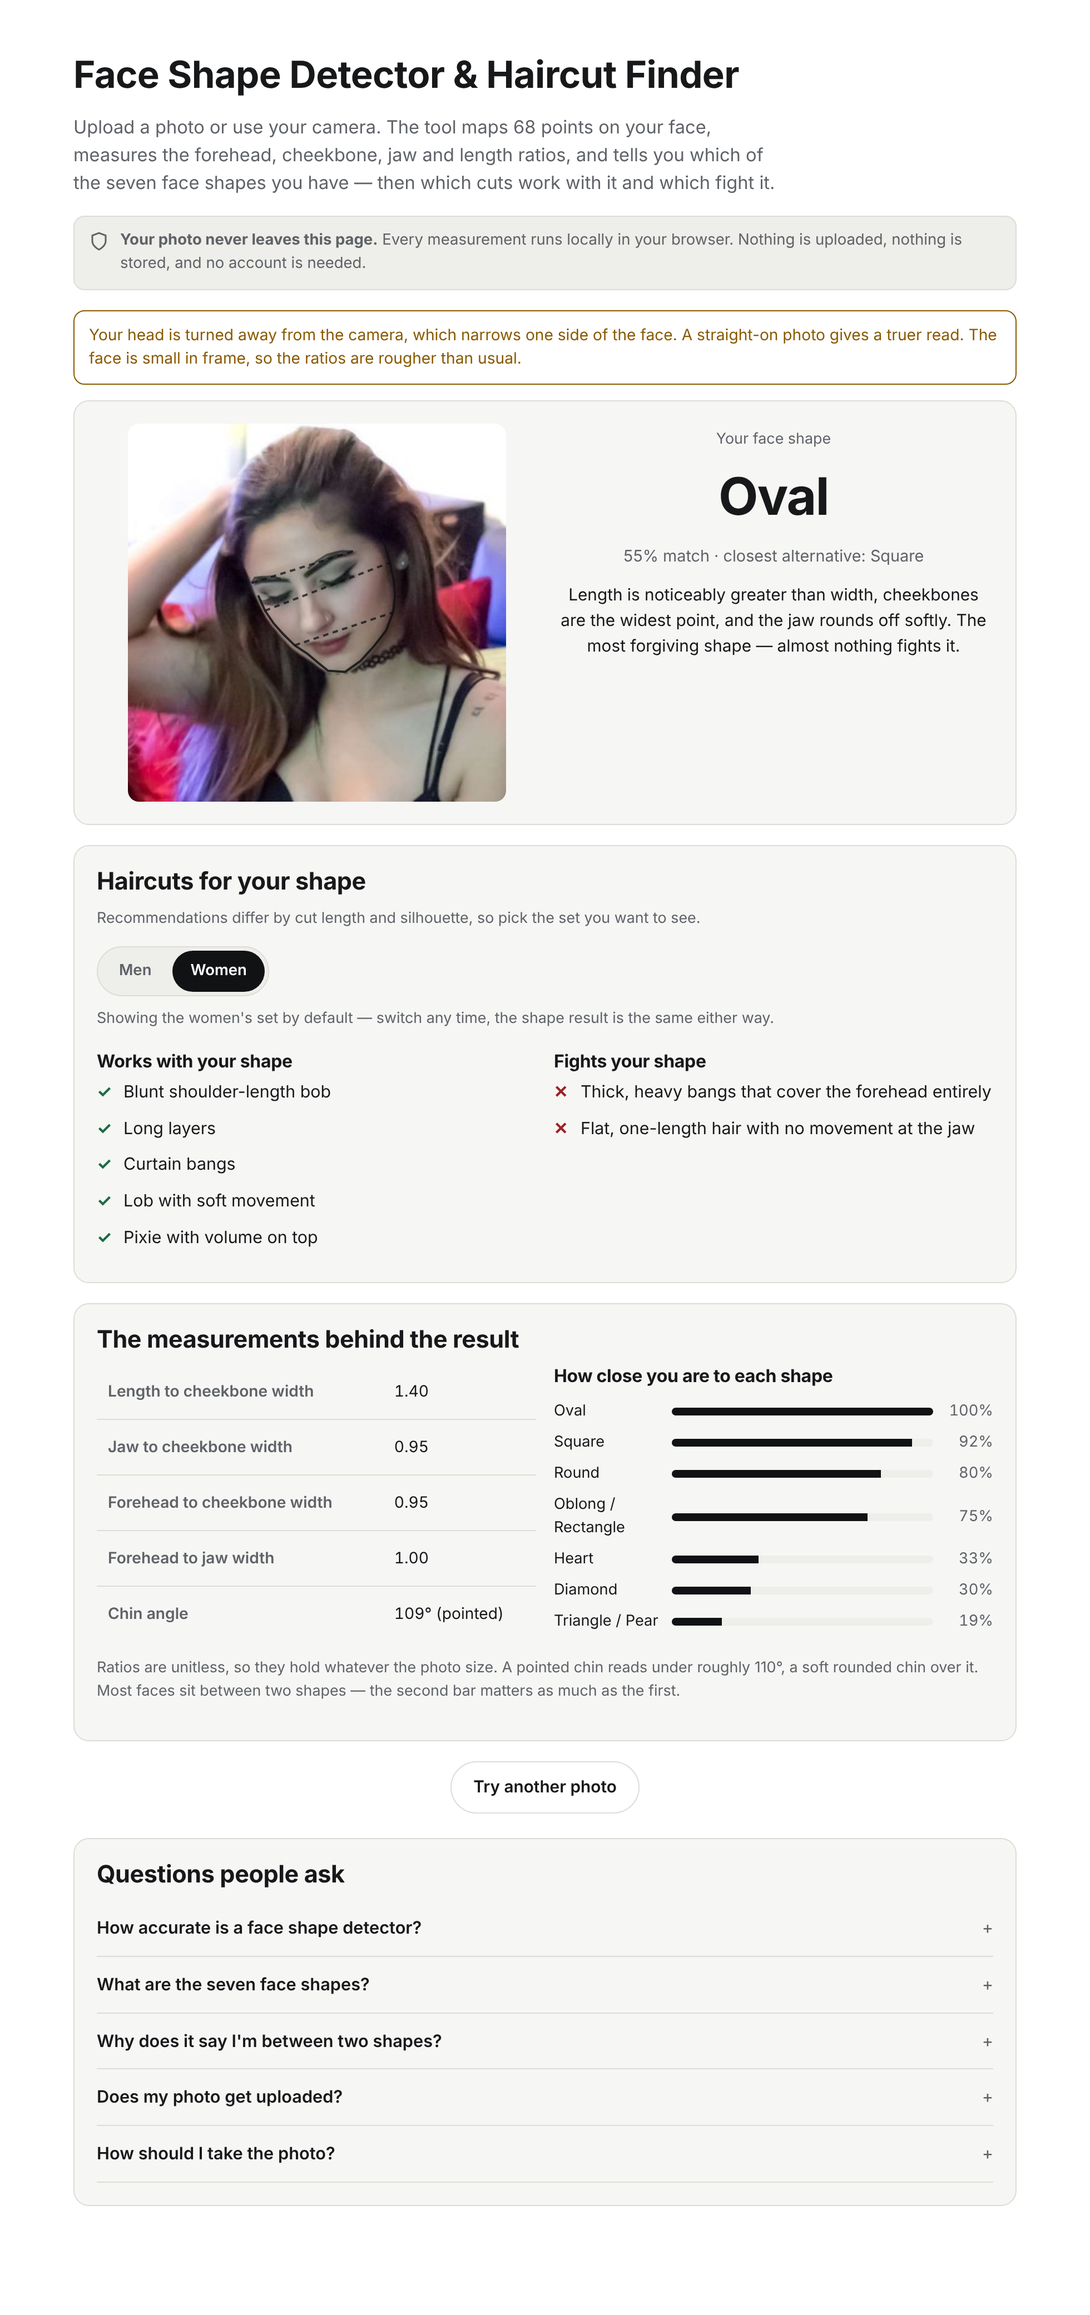
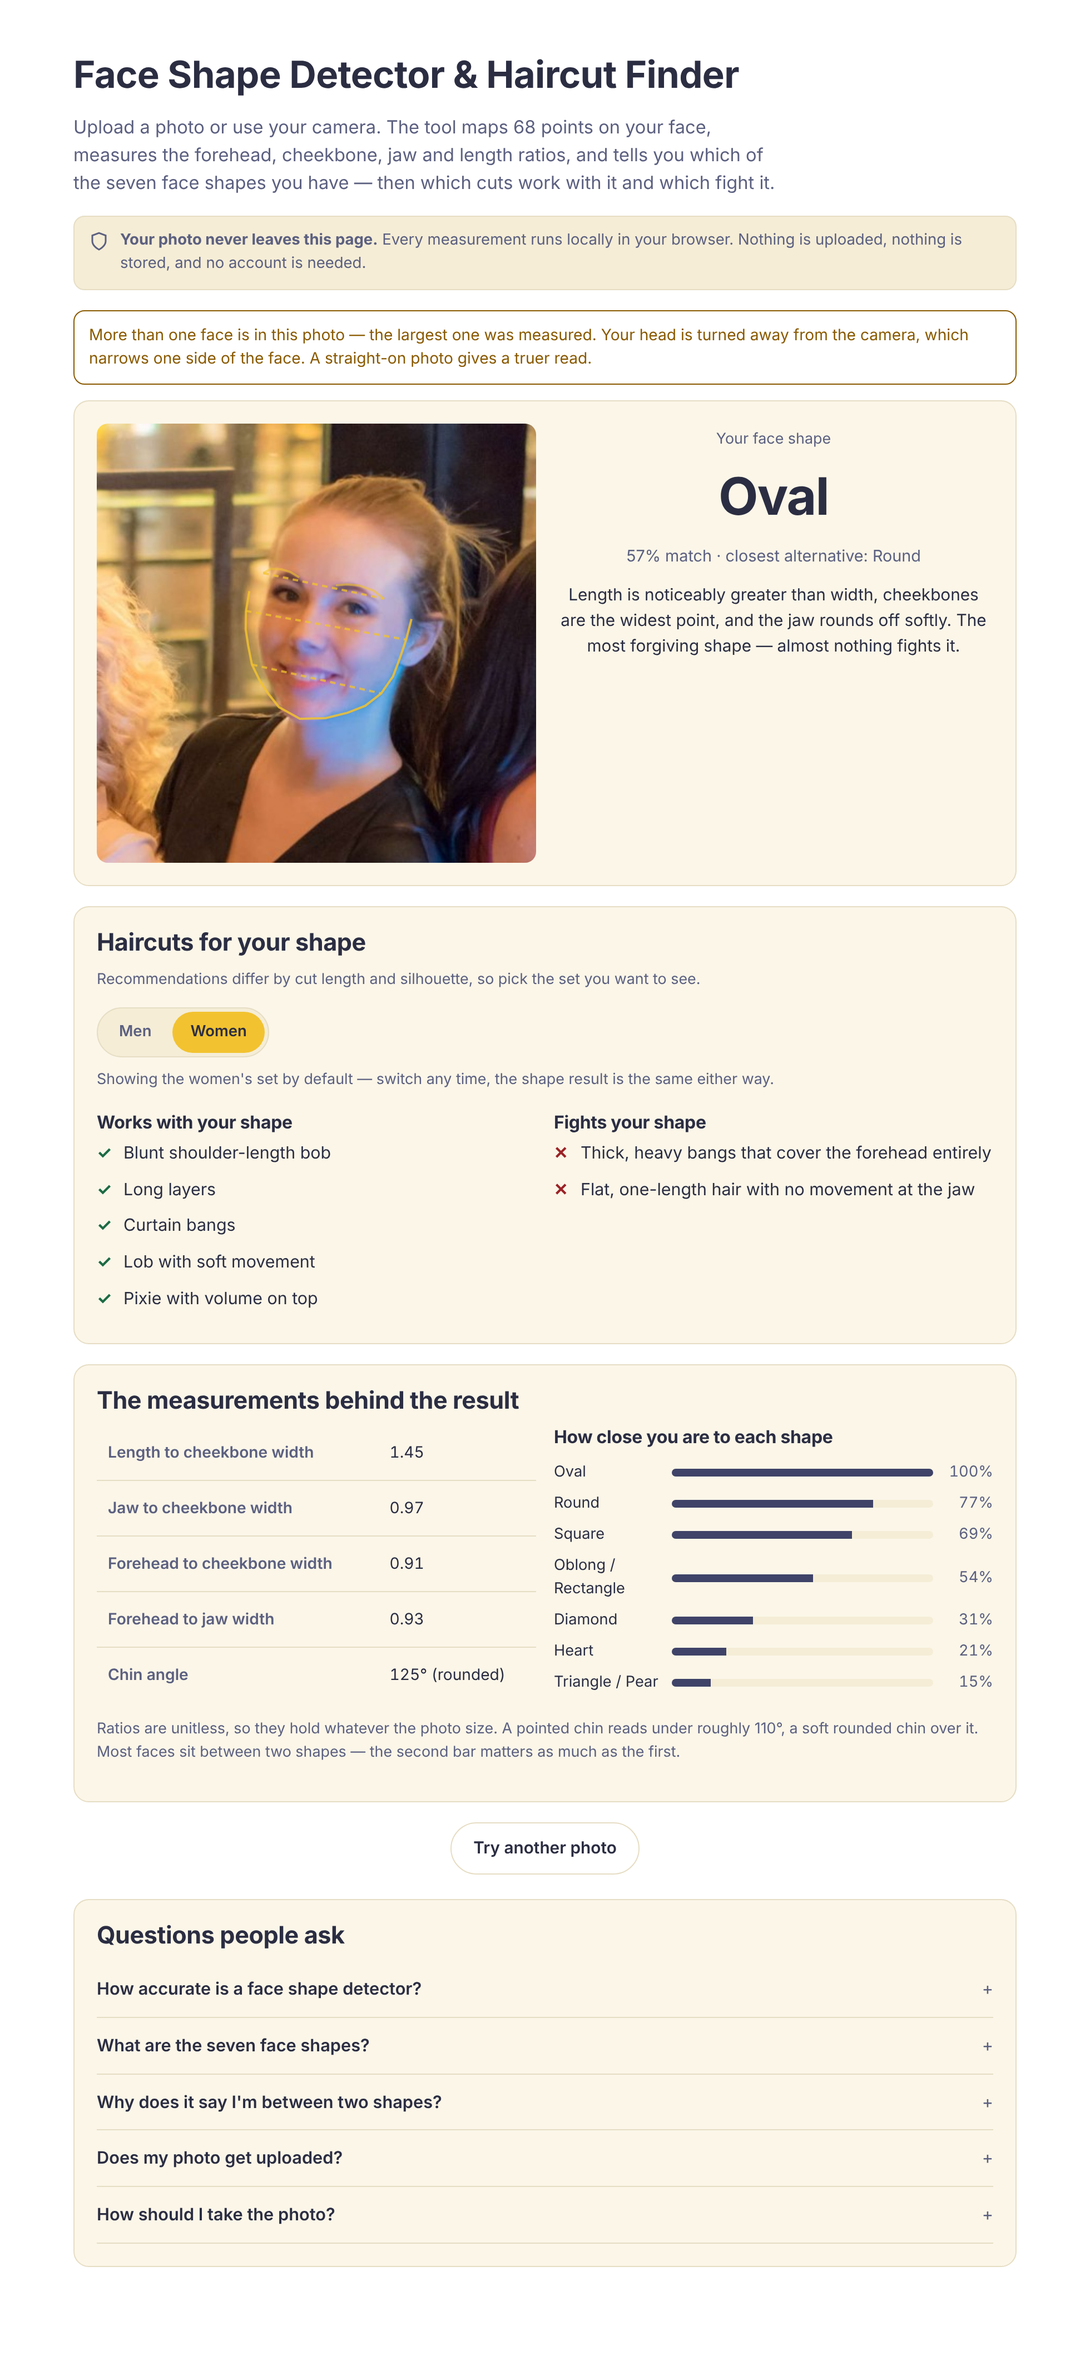
Apply StyleX palette and rebuild the age tool around a face shape CTA
Colours now come from the brand tokens at the top of src/_ui.css (#2B2D42
ink, #F2C230 gold, #F2C23021 tint, #3F4368 indigo, #FFFFFF), so both tools
follow from one place. Gold carries #2B2D42 text rather than white, measured
at 8.1:1; gold-on-white text would fail contrast. The result CTA uses the
indigo surface because the gold tint goes muddy over the dark navy.

The internal links were only rendered after an analysis, so a crawler — which
never uploads a photo — could not see them at all. The face shape calculator
CTA is now in the page source twice, above the tool and with the result, and
the explanatory sections are static too: breadcrumbs, H1, seven H2s and ~660
words present at rest.

Schema gains BreadcrumbList on both pages and a HowTo for the photo steps,
and the face shape URLs now point at /face-shape-calculator/.

Verified across light/dark at 390px and 1100px: CTA in static HTML, heading
outline, contrast ratios, no horizontal overflow, no console errors.

Claude-Session: https://claude.ai/code/session_011NGYxm4H6ghkHGiX9wM4Jo

diff --git a/stylex-tools/src/age-test.html b/stylex-tools/src/age-test.html
@@ -4,7 +4,7 @@
 <meta charset="utf-8">
 <meta name="viewport" content="width=device-width, initial-scale=1">
 <title>How Old Do I Look</title>
-<meta name="description" content="Find out how old you look from a photo. Guess your own result first, then see what the AI says. Runs entirely in your browser — your photo is never uploaded.">
+<meta name="description" content="Find out how old you look from a photo. Guess your result first, then compare. Free, no sign-up, and your photo never leaves your browser.">
 <style>/*!INJECT_CSS*/</style>
 <style>
 /* Standalone page only — DELETE this block when pasting the tool into a
@@ -16,12 +16,24 @@ html, body { margin: 0; padding: 24px 0 40px; background: var(--sx-bg); color: v
 
 <div class="sx-tool" id="sx-age-test">
 
+  <nav class="sx-crumbs" aria-label="Breadcrumb">
+    <a href="https://stylexmagazine.com/">StyleX Magazine</a> ›
+    <a href="https://stylexmagazine.com/tools/">Tools</a> ›
+    <span aria-current="page">How Old Do I Look</span>
+  </nav>
+
   <h1>How Old Do I Look?</h1>
   <p class="sx-lede">Upload a photo and the tool estimates the age your face reads as — your <em>apparent</em> age, not your real one. Guess your result first, then see how close you were.</p>
 
   <div class="sx-privacy">
     <svg viewBox="0 0 24 24" width="18" height="18" fill="none" stroke="currentColor" stroke-width="2" aria-hidden="true"><path d="M12 22s8-4 8-10V5l-8-3-8 3v7c0 6 8 10 8 10z"/></svg>
     <span><strong>Your photo never leaves this page.</strong> The model runs in your browser. Nothing is uploaded, stored, or shared — so there is nothing for anyone to leak.</span>
+  </div>
+
+  <div class="sx-cta">
+    <h2>Looking for a haircut, not a number?</h2>
+    <p>Apparent age is a party trick. The measurement that changes what actually suits you is your face shape — the ratio of forehead to cheekbone to jaw. It decides which haircut, fringe, beard line and glasses frame work on you.</p>
+    <a class="sx-btn sx-btn--cta" href="https://stylexmagazine.com/face-shape-calculator/">Find your face shape <svg viewBox="0 0 24 24" width="16" height="16" fill="none" stroke="currentColor" stroke-width="2.2" stroke-linecap="round" stroke-linejoin="round" aria-hidden="true"><path d="M5 12h14M13 6l6 6-6 6"/></svg></a>
   </div>
 
   <!-- ------------------------------- INPUT ------------------------------- -->
@@ -78,21 +90,65 @@ html, body { margin: 0; padding: 24px 0 40px; background: var(--sx-bg); color: v
       </div>
     </div>
 
-    <div class="sx-card">
-      <h2>What this number is — and is not</h2>
-      <p style="font-size:.95rem">It is an <strong>apparent age</strong>: the age a model trained on labelled face photos reads your face as. It is not your biological age, it is not a health measurement, and it says nothing about how long you will live. Any tool that tells you otherwise from a single selfie is overselling itself.</p>
-      <p style="font-size:.95rem;margin-bottom:0">Expect it to move by several years between two photos of the same person on the same day. Lighting, camera angle, expression, make-up, facial hair, glasses and image sharpness all shift the estimate, and the model is least reliable at both ends of the age range.</p>
-    </div>
-
-    <div class="sx-card" id="sx-crosslink-card">
-      <h2>More useful than your age: your face shape</h2>
-      <p style="font-size:.95rem">Apparent age is a party trick. The measurement that actually changes what suits you is the shape of your face — the ratio of forehead to cheekbone to jaw. It decides which haircut, beard line, fringe and glasses frame work on you, and which fight your proportions.</p>
-      <ul class="sx-links" id="sx-links"></ul>
+    <div class="sx-cta sx-cta--result">
+      <h2>Now find out what actually suits you</h2>
+      <p>You have a number. Your face shape is the measurement that decides which cuts work with your proportions and which fight them — same photo, far more useful answer.</p>
+      <a class="sx-btn sx-btn--cta" href="https://stylexmagazine.com/face-shape-calculator/">Open the face shape calculator <svg viewBox="0 0 24 24" width="16" height="16" fill="none" stroke="currentColor" stroke-width="2.2" stroke-linecap="round" stroke-linejoin="round" aria-hidden="true"><path d="M5 12h14M13 6l6 6-6 6"/></svg></a>
+      <ul class="sx-links" id="sx-links" style="margin-top:16px"></ul>
     </div>
 
     <div class="sx-actions" style="margin-bottom:22px">
       <button type="button" class="sx-btn sx-btn--ghost" id="sx-again">Try another photo</button>
     </div>
+  </div>
+
+
+  <div class="sx-card sx-prose">
+    <h2>What this number is — and is not</h2>
+    <p>It is an <strong>apparent age</strong>: the age a model trained on labelled face photos reads your face as. It is not your biological age, it is not a health measurement, and it says nothing about how long you will live. Any tool that tells you otherwise from a single selfie is overselling itself.</p>
+
+    <h3>Apparent age vs biological age vs chronological age</h3>
+    <div class="sx-table-wrap">
+      <table>
+        <thead><tr><th>Measure</th><th>What it is</th><th>How it is measured</th></tr></thead>
+        <tbody>
+          <tr><td>Chronological age</td><td>Years since you were born</td><td>Your birth certificate</td></tr>
+          <tr><td>Apparent age</td><td>How old your face reads</td><td>A photo — what this tool estimates</td></tr>
+          <tr><td>Biological age</td><td>How your body is ageing</td><td>Clinical and molecular markers, not a selfie</td></tr>
+        </tbody>
+      </table>
+    </div>
+
+    <h2>How the estimate works</h2>
+    <ol>
+      <li><strong>Face detection.</strong> The model locates every face in the photo and keeps the largest one.</li>
+      <li><strong>Landmark mapping.</strong> 68 points are placed across the brows, eyes, nose, mouth and jawline to align the face.</li>
+      <li><strong>Age prediction.</strong> A neural network trained on labelled-age photographs returns a single number, which is shown here as a range.</li>
+    </ol>
+    <p>All three steps run on your own device. The model file is downloaded to your browser once and the photo is never sent anywhere.</p>
+
+    <h2>How accurate is an AI age detector?</h2>
+    <p>Accurate enough to be entertaining, not accurate enough to rely on. Published vendor benchmarks are honest about where the error sits: one age-assurance provider reports an overall mean error of about 1.6 years, but the same benchmark shows <strong>3.3 years at ages 26–40 and 5.0 years at 40 and over</strong>. Error grows with age, because adult faces change far more slowly than children's.</p>
+    <p>That is why the result here is shown as a band rather than a single confident number. Expect it to move by several years between two photos of the same person taken on the same day.</p>
+
+    <h3>What pushes the estimate up or down</h3>
+    <ul>
+      <li><strong>Lighting.</strong> Harsh overhead light deepens shadows under the eyes and mouth and reads as older. Soft, even front light reads younger.</li>
+      <li><strong>Camera angle.</strong> A phone held low and close widens the jaw and adds apparent weight to the lower face.</li>
+      <li><strong>Resolution.</strong> Low-resolution photos smear the fine skin detail the model reads as youth.</li>
+      <li><strong>Facial hair.</strong> Beards consistently push estimates upward.</li>
+      <li><strong>Expression.</strong> A neutral face reads older than a smile.</li>
+      <li><strong>Make-up and glasses.</strong> Both shift the result, in either direction.</li>
+    </ul>
+
+    <h2>How to get the most accurate result</h2>
+    <ol>
+      <li>Face the camera straight on, with your whole face in frame.</li>
+      <li>Use soft, even light from in front of you — never from directly overhead or behind.</li>
+      <li>Hold the camera at eye level, at arm's length.</li>
+      <li>Take off sunglasses and pull hair back from your forehead and jaw.</li>
+      <li>Keep a neutral expression, and use the sharpest photo you have.</li>
+    </ol>
   </div>
 
   <!-- -------------------------------- FAQ -------------------------------- -->
@@ -123,7 +179,9 @@ html, body { margin: 0; padding: 24px 0 40px; background: var(--sx-bg); color: v
    * use URLs that exist; an empty array hides the card.
    * ================================================================== */
   var LINKS = [
-    // { text: 'Find your face shape and the haircuts that suit it', href: '/tools/face-shape-detector/' }
+    // Extra links shown under the CTA after a result. The face shape button
+    // above is always in the HTML, so it is crawlable without these.
+    // { text: 'Best haircuts for a round face', href: 'https://stylexmagazine.com/...' }
   ];
 
   var S = window.StyleXFace;

diff --git a/stylex-tools/src/_ui.css b/stylex-tools/src/_ui.css
@@ -1,24 +1,36 @@
 :root{
-  --sx-bg:#ffffff; --sx-surface:#f6f6f4; --sx-surface-2:#eeeeea;
-  --sx-text:#17181a; --sx-muted:#5f6368; --sx-border:#dedcd6;
-  --sx-accent:#111214; --sx-accent-text:#ffffff;
-  --sx-good:#1c6b45; --sx-warn:#8a5a00; --sx-bad:#9b2226;
+  /* StyleX brand palette
+     #2B2D42 ink · #F2C230 gold · #F2C23021 gold tint · #3F4368 indigo · #FFFFFF */
+  --sx-brand-ink:#2B2D42;
+  --sx-brand-gold:#F2C230;
+  --sx-brand-tint:#F2C23021;
+  --sx-brand-indigo:#3F4368;
+
+  --sx-bg:#FFFFFF; --sx-surface:#FBF6E8; --sx-surface-2:#F5EDD6;
+  --sx-text:#2B2D42; --sx-muted:#5C6080; --sx-border:#E6DDC4;
+  --sx-accent:#F2C230; --sx-accent-text:#2B2D42;
+  --sx-ink:#3F4368;
+  --sx-good:#1C6B45; --sx-warn:#8A5A00; --sx-bad:#9B2226;
   --sx-radius:14px; --sx-max:880px;
   --sx-font:"Inter",-apple-system,BlinkMacSystemFont,"Segoe UI",Roboto,Helvetica,Arial,sans-serif;
 }
 @media (prefers-color-scheme:dark){
   :root:not([data-theme="light"]){
-    --sx-bg:#101113; --sx-surface:#191b1e; --sx-surface-2:#22252a;
-    --sx-text:#f2f3f5; --sx-muted:#a4a9b0; --sx-border:#2e3238;
-    --sx-accent:#f2f3f5; --sx-accent-text:#101113;
-    --sx-good:#5fd49b; --sx-warn:#e0b252; --sx-bad:#f08a8a;
+    --sx-bg:#2B2D42; --sx-surface:#343754; --sx-surface-2:#3F4368;
+    --sx-text:#FFFFFF; --sx-muted:#B9BDD9; --sx-border:#4B4F74;
+    --sx-accent:#F2C230; --sx-accent-text:#2B2D42;
+    --sx-ink:#F2C230;
+    --sx-good:#5FD49B; --sx-warn:#F2C230; --sx-bad:#F08A8A;
+    color-scheme:dark;
   }
 }
 :root[data-theme="dark"]{
-  --sx-bg:#101113; --sx-surface:#191b1e; --sx-surface-2:#22252a;
-  --sx-text:#f2f3f5; --sx-muted:#a4a9b0; --sx-border:#2e3238;
-  --sx-accent:#f2f3f5; --sx-accent-text:#101113;
-  --sx-good:#5fd49b; --sx-warn:#e0b252; --sx-bad:#f08a8a;
+    --sx-bg:#2B2D42; --sx-surface:#343754; --sx-surface-2:#3F4368;
+    --sx-text:#FFFFFF; --sx-muted:#B9BDD9; --sx-border:#4B4F74;
+    --sx-accent:#F2C230; --sx-accent-text:#2B2D42;
+    --sx-ink:#F2C230;
+    --sx-good:#5FD49B; --sx-warn:#F2C230; --sx-bad:#F08A8A;
+  color-scheme:dark;
 }
 
 *,*::before,*::after{box-sizing:border-box}
@@ -102,7 +114,7 @@
 .sx-bars{margin:0; padding:0; list-style:none}
 .sx-bars li{display:grid; grid-template-columns:96px 1fr 44px; gap:10px; align-items:center; font-size:.85rem; margin-bottom:7px}
 .sx-bars .sx-bar{height:7px; background:var(--sx-surface-2); border-radius:999px; overflow:hidden}
-.sx-bars .sx-bar i{display:block; height:100%; background:var(--sx-accent)}
+.sx-bars .sx-bar i{display:block; height:100%; background:var(--sx-ink)}
 .sx-bars .sx-pct{text-align:right; color:var(--sx-muted); font-variant-numeric:tabular-nums}
 
 .sx-note{font-size:.84rem; color:var(--sx-muted); margin:0}
@@ -111,8 +123,8 @@
 .sx-alert--bad{border-color:var(--sx-bad); color:var(--sx-bad); background:transparent}
 
 .sx-links{display:grid; gap:8px; margin:0; padding:0; list-style:none}
-.sx-links a{color:var(--sx-text); text-decoration:none; font-weight:600; font-size:.93rem; border-bottom:1px solid var(--sx-border); padding-bottom:7px; display:block}
-.sx-links a:hover{border-color:var(--sx-accent)}
+.sx-links a{color:var(--sx-ink); text-decoration:none; font-weight:600; font-size:.93rem; border-bottom:1px solid var(--sx-border); padding-bottom:7px; display:block}
+.sx-links a:hover{border-color:var(--sx-accent); color:var(--sx-text)}
 
 .sx-faq details{border-bottom:1px solid var(--sx-border); padding:13px 0}
 .sx-faq summary{cursor:pointer; font-weight:600; font-size:.96rem; list-style:none}
@@ -123,3 +135,35 @@
 
 .sx-hidden{display:none !important}
 .sx-sr{position:absolute; width:1px; height:1px; overflow:hidden; clip:rect(0 0 0 0); white-space:nowrap}
+
+/* ---- CTA band: the handoff to the face shape calculator ---- */
+.sx-cta{
+  background:var(--sx-surface); border:1px solid var(--sx-border);
+  border-left:4px solid var(--sx-accent); border-radius:var(--sx-radius);
+  padding:22px; margin:0 0 18px;
+}
+.sx-cta h2{margin-bottom:.35em}
+.sx-cta p{font-size:.95rem; margin-bottom:16px; max-width:58ch}
+/* gold tint over white reads warm; over the navy it goes muddy, so the
+   result CTA uses the secondary surface in both themes */
+.sx-cta--result{background:var(--sx-surface-2)}
+.sx-btn--cta{
+  text-decoration:none; display:inline-flex; align-items:center; gap:8px;
+  background:var(--sx-accent); color:var(--sx-accent-text); border-color:var(--sx-accent);
+}
+.sx-btn--cta:hover{filter:brightness(.94)}
+.sx-btn--cta svg{flex:0 0 16px}
+
+/* ---- static prose sections (crawlable without interacting) ---- */
+.sx-prose h2{margin-top:0}
+.sx-prose h3{margin-top:1.3em}
+.sx-prose p,.sx-prose li{font-size:.95rem}
+.sx-prose ol,.sx-prose ul{padding-left:1.2em; margin:0 0 1em}
+.sx-prose li{margin-bottom:.45em}
+.sx-prose table{width:100%; border-collapse:collapse; font-size:.88rem; margin:0 0 1em}
+.sx-prose th,.sx-prose td{text-align:left; padding:9px 10px; border-bottom:1px solid var(--sx-border)}
+.sx-prose th{font-weight:650; color:var(--sx-muted)}
+.sx-table-wrap{overflow-x:auto}
+.sx-crumbs{font-size:.82rem; color:var(--sx-muted); margin:0 0 14px}
+.sx-crumbs a{color:var(--sx-muted)}
+.sx-crumbs span[aria-current]{color:var(--sx-text); font-weight:600}

diff --git a/stylex-tools/seo/embed-wordpress.html b/stylex-tools/seo/embed-wordpress.html
@@ -1,12 +1,24 @@
 <!--
   WordPress embed — the safest option.
 
+  Shown here for the face shape tool. For the age tool, swap both the src and
+  the title, and use seo/age-test-schema.json.
+
   1. Upload dist/face-shape.html to your server, e.g. via FTP or your host's
      file manager, at:   /stylex-tools/face-shape.html
-  2. Create the page you want the tool to live on (Tools > Face Shape Detector).
+  2. Create the page the tool lives on:
+       face shape  ->  /face-shape-calculator/
+       age test    ->  /tools/how-old-do-i-look/
   3. Add a Custom HTML block and paste everything below.
-  4. Paste the contents of seo/face-shape-schema.json into the page's JSON-LD
-     field (Rank Math / Yoast custom schema), with the URLs corrected.
+  4. Paste the matching seo/*-schema.json into the page's JSON-LD field
+     (Rank Math / Yoast custom schema).
+
+  NOTE ON SEO: an iframe isolates the tool, which also means Google attributes
+  the tool's text and its internal links to the iframe URL, not to the parent
+  page. So write the page's own H1, intro and FAQ in WordPress itself, and put
+  the link to the other tool in the parent page too. If you would rather the
+  tool's own copy count for the page, use the inline paste (Option B in the
+  README) instead of this iframe.
 
   The iframe keeps the tool's CSS and JS fully isolated from your theme, so a
   plugin or theme update can never break it. allow="camera" is required for

diff --git a/stylex-tools/README.md b/stylex-tools/README.md
@@ -48,7 +48,8 @@ can now reach the tool. All classes are namespaced `sx-` to limit collisions.
 | Haircut / beard recommendations | `SHAPES` in `src/engine.js` |
 | Internal links shown with the result | `LINKS` at the top of each page's script |
 | Classifier calibration | `TUNING` in `src/engine.js` |
-| Colours, spacing | `src/_ui.css` |
+| Colours, spacing | `src/_ui.css` (tokens at the top) |
+| The face shape CTA target | search `face-shape-calculator` in `src/age-test.html` |
 
 After editing anything in `src/`, rebuild:
 
@@ -58,7 +59,25 @@ node tests/classify.test.mjs
 ```
 
 `LINKS` starts empty on purpose — add only URLs confirmed in your sitemap, or
-the card stays hidden. Nothing ships a broken link.
+the list stays hidden. Nothing ships a broken link.
+
+### Brand colours
+
+The palette lives in the `:root` block at the top of `src/_ui.css`:
+`#2B2D42` ink, `#F2C230` gold, `#F2C23021` gold tint, `#3F4368` indigo,
+`#FFFFFF`. Light mode is white with the gold as the button and accent colour;
+dark mode moves to `#2B2D42` with the gold kept as the accent. Gold carries
+`#2B2D42` text rather than white — measured at 8.1:1, where gold-on-white text
+would fail contrast outright. Change a token in one place and both tools
+follow.
+
+### Why the CTA is in the static HTML
+
+The face shape button appears twice: once above the tool and once with the
+result. Both are in the page source at load, not injected after analysis.
+That matters — a crawler never uploads a photo, so anything rendered only in
+the result state is invisible to it. The same goes for the prose sections:
+every H2 is in the HTML at rest.
 
 ---
 
@@ -123,4 +142,7 @@ inside the documented band.
 
 The browser-level checks run against a local copy of the models (upload,
 camera capture, no-face handling, the gender toggle, reset, overlay painting,
-dark mode and 360px layout). Screenshots of the verified output are in `docs/`.
+dark mode and 360px layout), plus a structure pass that checks the CTA is in
+the static HTML, the heading outline, breadcrumbs, word count and the
+gold-button contrast ratio in both themes. Screenshots of the verified output
+are in `docs/`.
